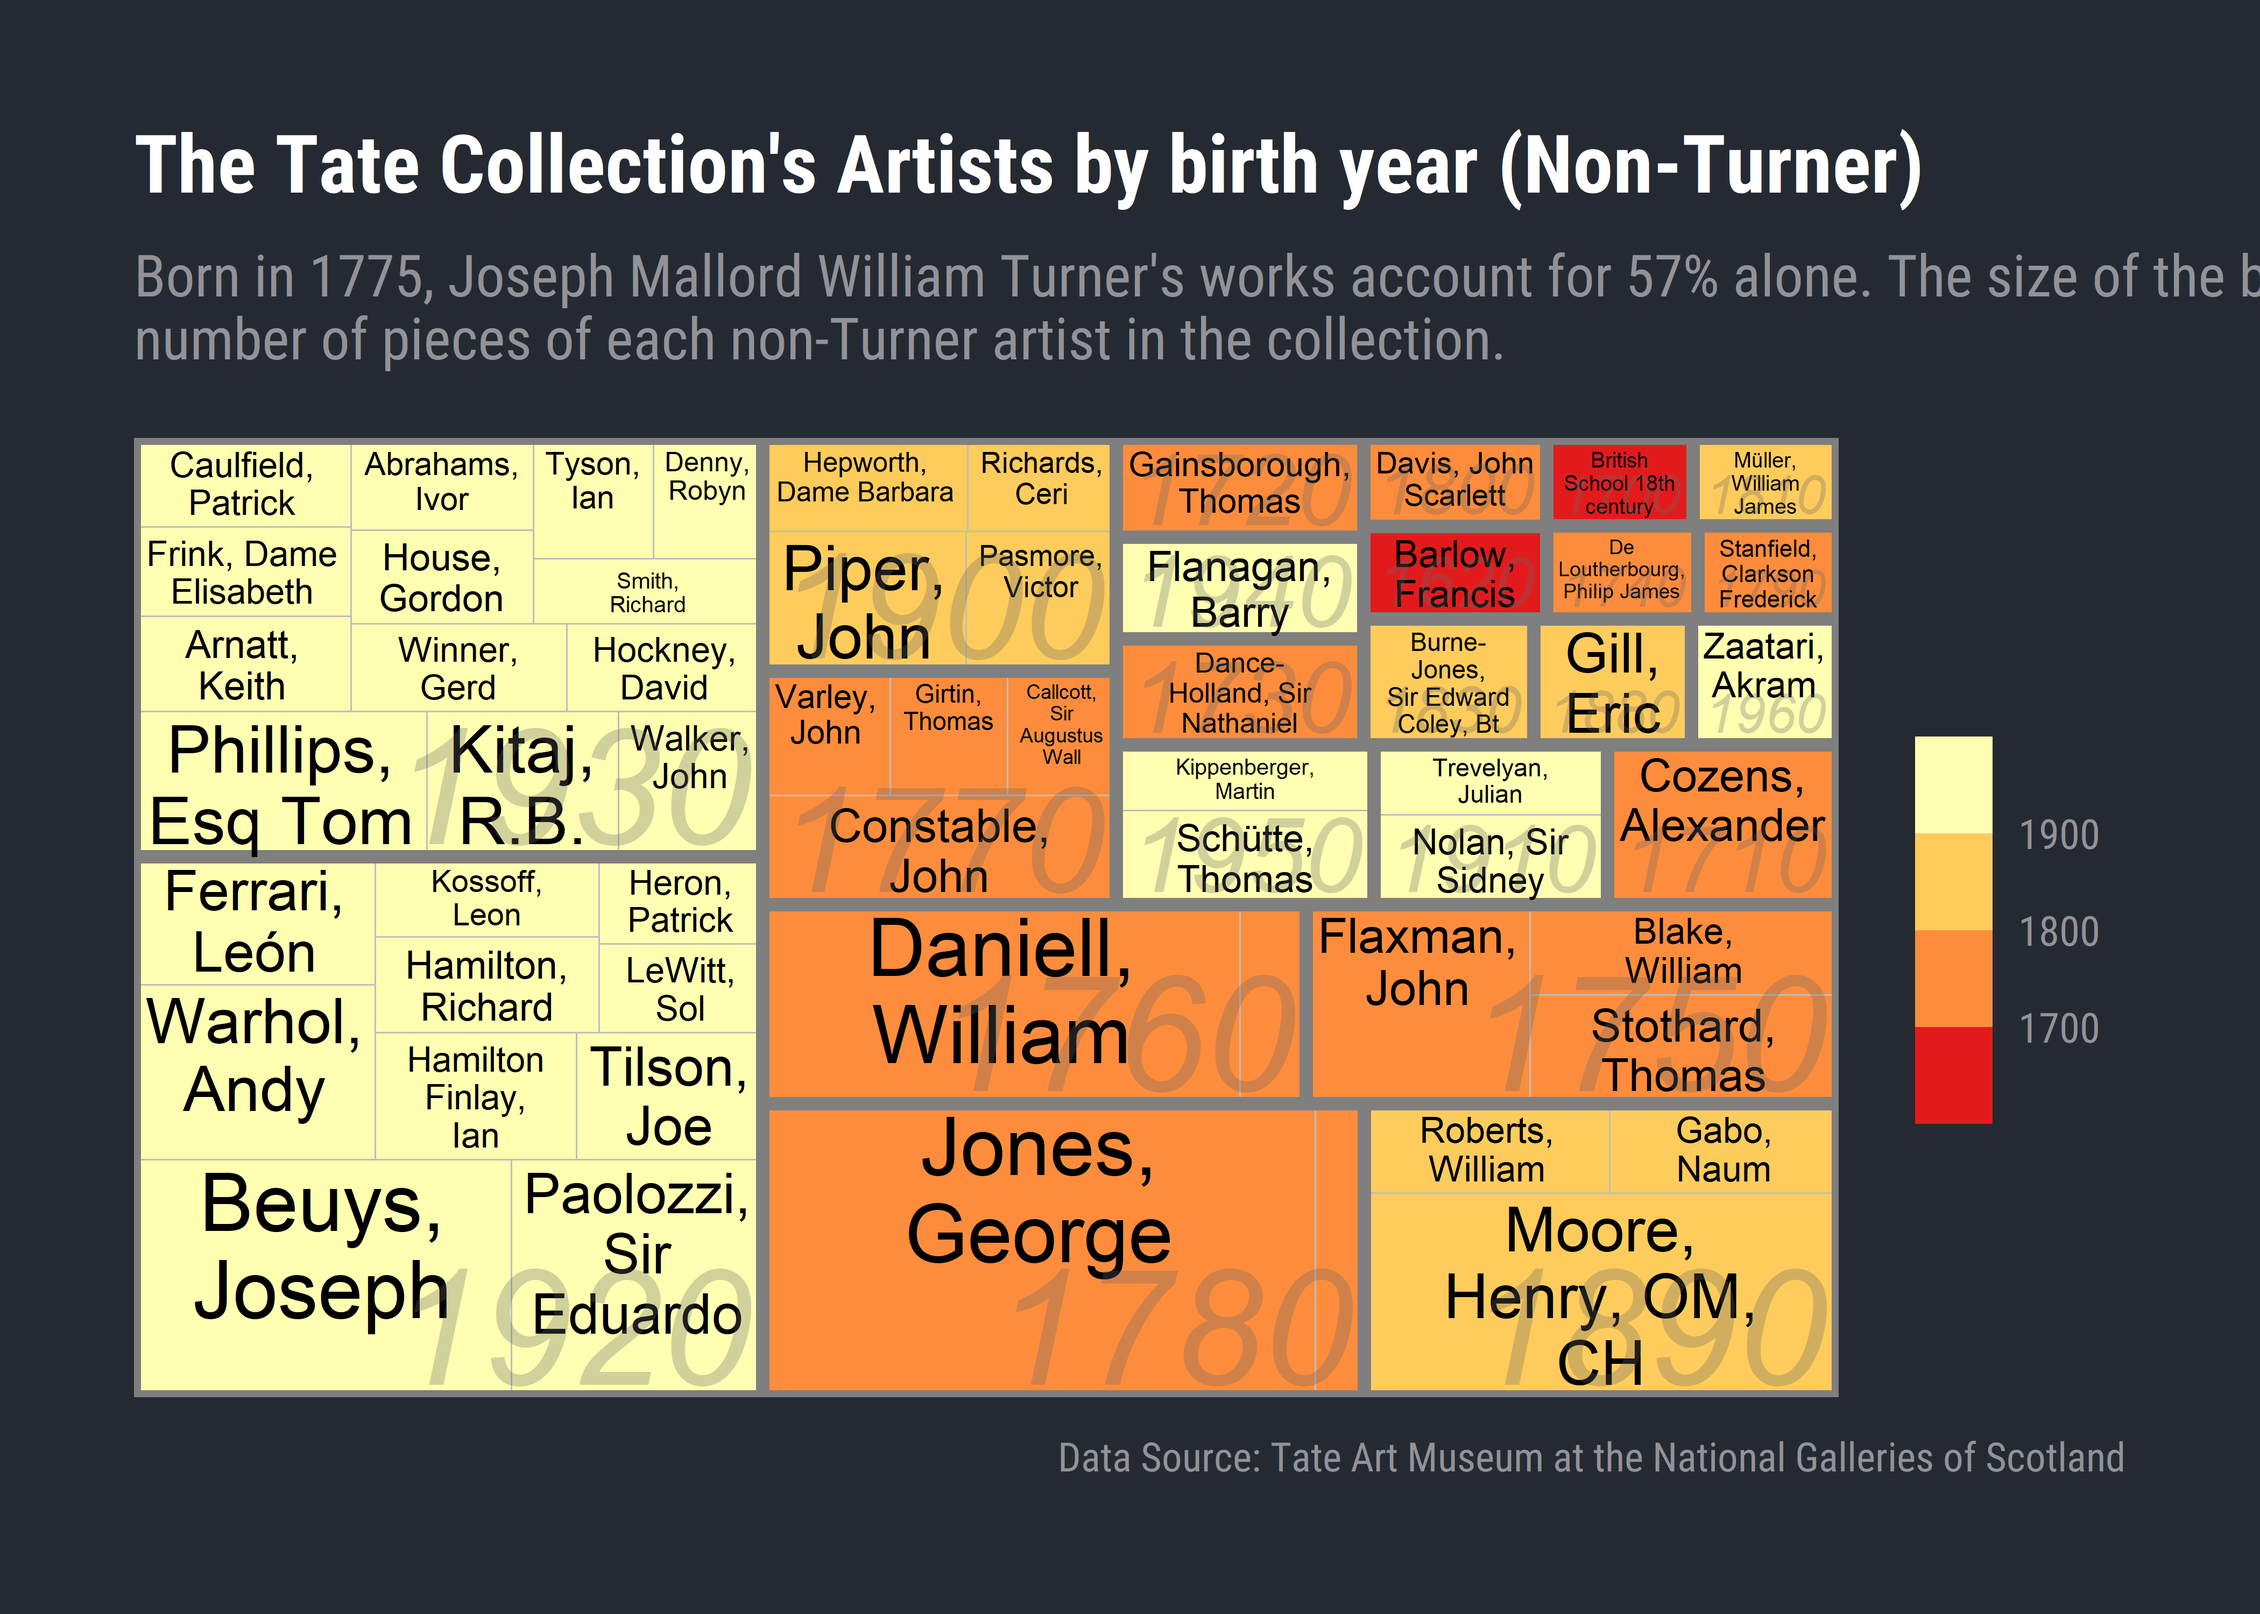
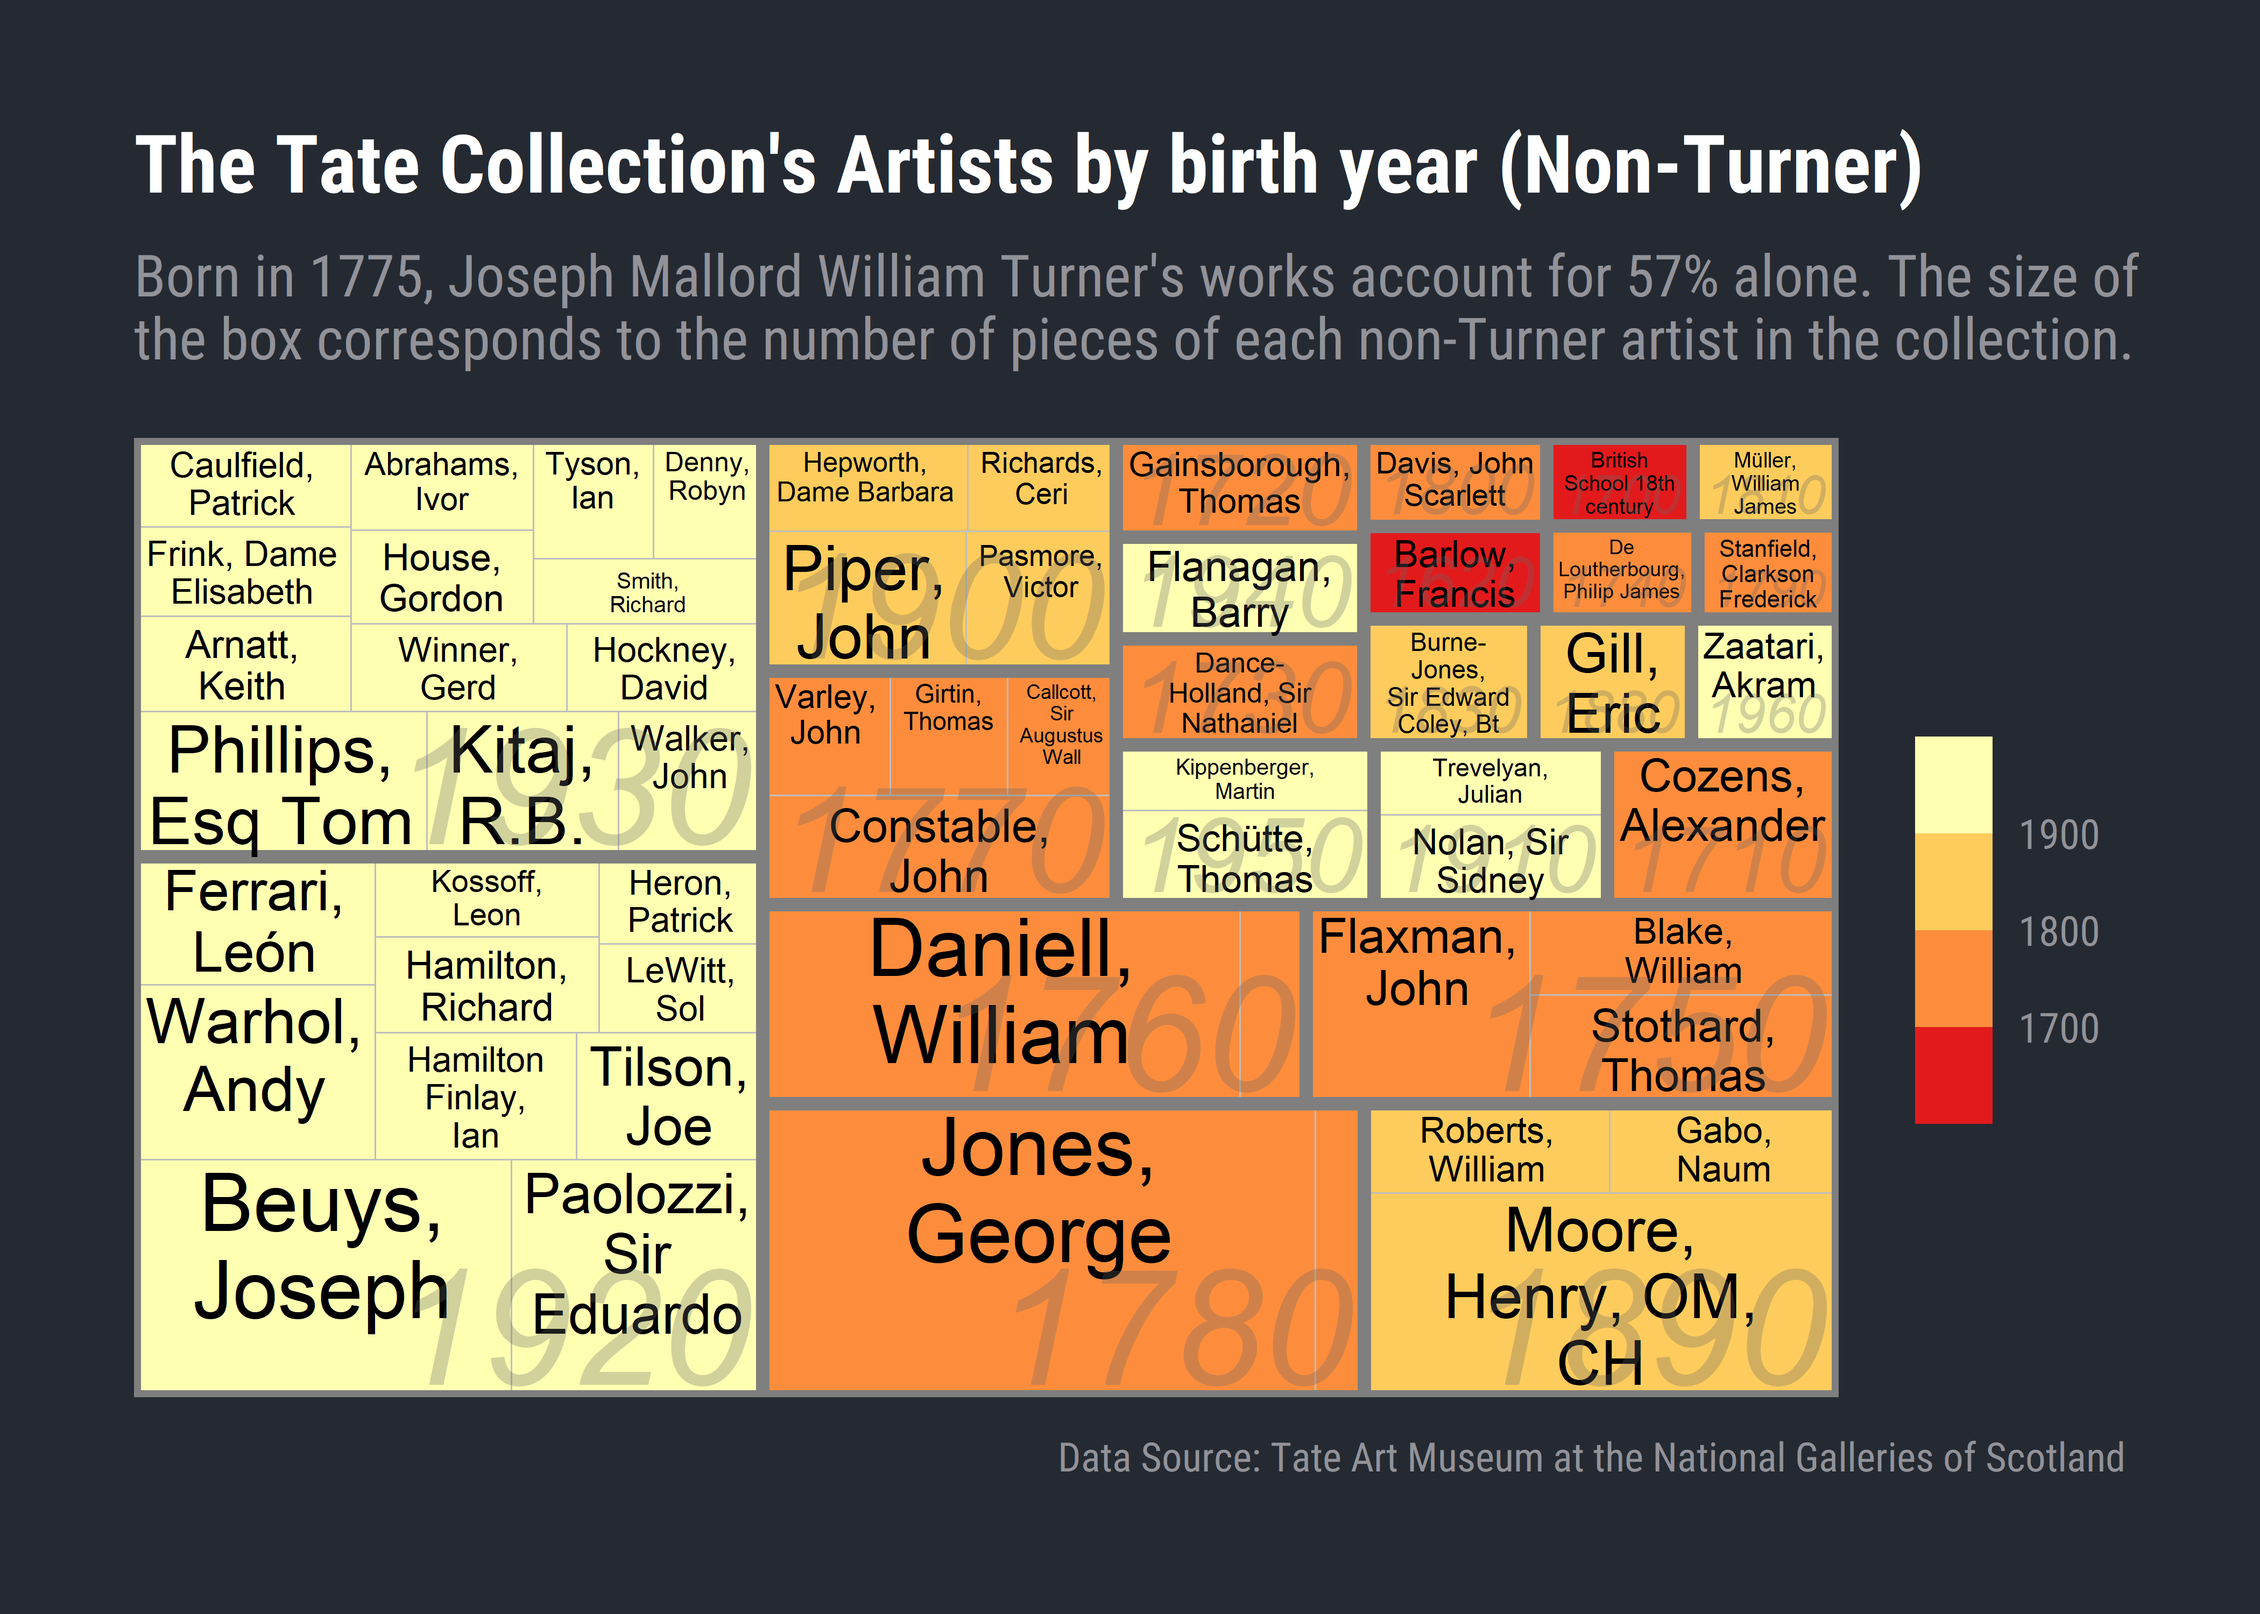
Build site.

Changed region(s): [[0.0624, 0.186, 0.9357, 0.248], [0.9357, 0.155, 1.0, 0.186]]

diff --git a/docs/2021_01_12_tidy_tuesday.html b/docs/2021_01_12_tidy_tuesday.html
@@ -413,16 +413,16 @@ This reproducible <a href="http://rmarkdown.rstudio.com">R Markdown</a> analysis
 <div class="panel panel-default">
 <div class="panel-heading">
 <p class="panel-title">
-<a data-toggle="collapse" data-parent="#workflowr-checks" href="#strongRepositoryversionstrongahrefhttpsgithubcomopus1993myTidyTuesdaytree24bae7ff6d9cc4d8310bb0100b4f48e63168c453targetblank24bae7fa"> <span class="glyphicon glyphicon-ok text-success" aria-hidden="true"></span> <strong>Repository version:</strong> <a href="https://github.com/opus1993/myTidyTuesday/tree/24bae7ff6d9cc4d8310bb0100b4f48e63168c453" target="_blank">24bae7f</a> </a>
+<a data-toggle="collapse" data-parent="#workflowr-checks" href="#strongRepositoryversionstrongahrefhttpsgithubcomopus1993myTidyTuesdaytreebaf45370b806ef7317d8a3652ead4511b5af91a4targetblankbaf4537a"> <span class="glyphicon glyphicon-ok text-success" aria-hidden="true"></span> <strong>Repository version:</strong> <a href="https://github.com/opus1993/myTidyTuesday/tree/baf45370b806ef7317d8a3652ead4511b5af91a4" target="_blank">baf4537</a> </a>
 </p>
 </div>
[2 lines of base64/hex data omitted]
 <div class="panel-body">
 <p>
 Great! You are using Git for version control. Tracking code development and connecting the code version to the results is critical for reproducibility.
 </p>
 <p>
-The results in this page were generated with repository version <a href="https://github.com/opus1993/myTidyTuesday/tree/24bae7ff6d9cc4d8310bb0100b4f48e63168c453" target="_blank">24bae7f</a>. See the <em>Past versions</em> tab to see a history of the changes made to the R Markdown and HTML files.
+The results in this page were generated with repository version <a href="https://github.com/opus1993/myTidyTuesday/tree/baf45370b806ef7317d8a3652ead4511b5af91a4" target="_blank">baf4537</a>. See the <em>Past versions</em> tab to see a history of the changes made to the R Markdown and HTML files.
 </p>
 <p>
 Note that you need to be careful to ensure that all relevant files for the analysis have been committed to Git prior to generating the results (you can use <code>wflow_publish</code> or <code>wflow_git_commit</code>). workflowr only checks the R Markdown file, but you know if there are other scripts or data files that it depends on. Below is the status of the Git repository when the results were generated:
@@ -476,6 +476,40 @@ Message
 </tr>
 </thead>
 <tbody>
+<tr>
+<td>
+Rmd
+</td>
+<td>
+<a href="https://github.com/opus1993/myTidyTuesday/blob/baf45370b806ef7317d8a3652ead4511b5af91a4/analysis/2021_01_12_tidy_tuesday.Rmd" target="_blank">baf4537</a>
+</td>
+<td>
+opus1993
+</td>
+<td>
+2021-01-12
+</td>
+<td>
+wflow_publish(“analysis/2021_01_12_tidy_tuesday.Rmd”)
+</td>
+</tr>
+<tr>
+<td>
+html
+</td>
+<td>
+<a href="https://rawcdn.githack.com/opus1993/myTidyTuesday/59cd0f1a1667d572fafebe25a89df980d0cc6b61/docs/2021_01_12_tidy_tuesday.html" target="_blank">59cd0f1</a>
+</td>
+<td>
+opus1993
+</td>
+<td>
+2021-01-12
+</td>
+<td>
+Build site.
+</td>
+</tr>
 <tr>
 <td>
 Rmd
@@ -573,7 +607,7 @@ wflow_publish(“analysis/2021_01_12_tidy_tuesday.Rmd”)
   ) +
   labs(
     fill = NULL, title = &quot;The Tate Collection&#39;s Artists by birth year (Non-Turner)&quot;,
-    subtitle = &quot;Born in 1775, Joseph Mallord William Turner&#39;s works account for 57% alone. The size of the box corresponds to the \nnumber of pieces of each non-Turner artist in the collection.&quot;,
+    subtitle = &quot;Born in 1775, Joseph Mallord William Turner&#39;s works account for 57% alone. The size of\nthe box corresponds to the number of pieces of each non-Turner artist in the collection.&quot;,
     caption = &quot;Data Source: Tate Art Museum at the National Galleries of Scotland&quot;
   )</code></pre>
 <p><img src="figure/2021_01_12_tidy_tuesday.Rmd/Visualize-1.png" width="2100" style="display: block; margin: auto;" /></p>
